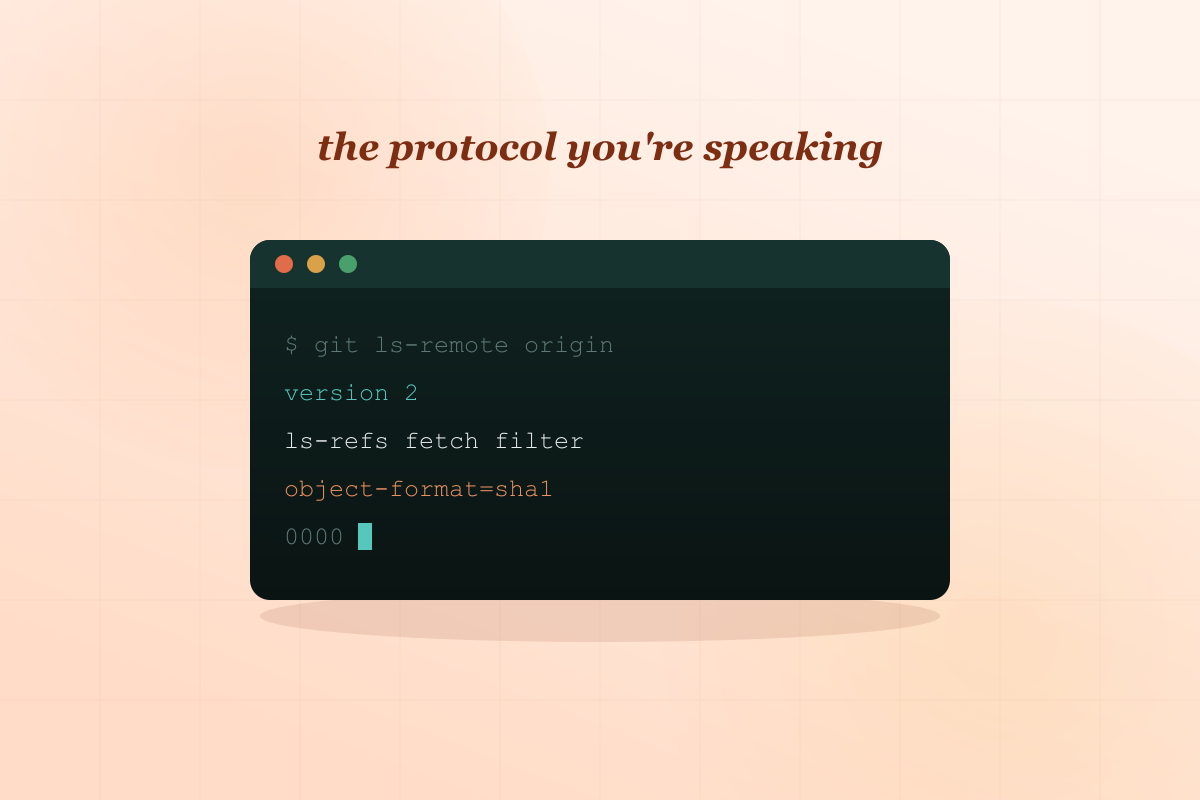
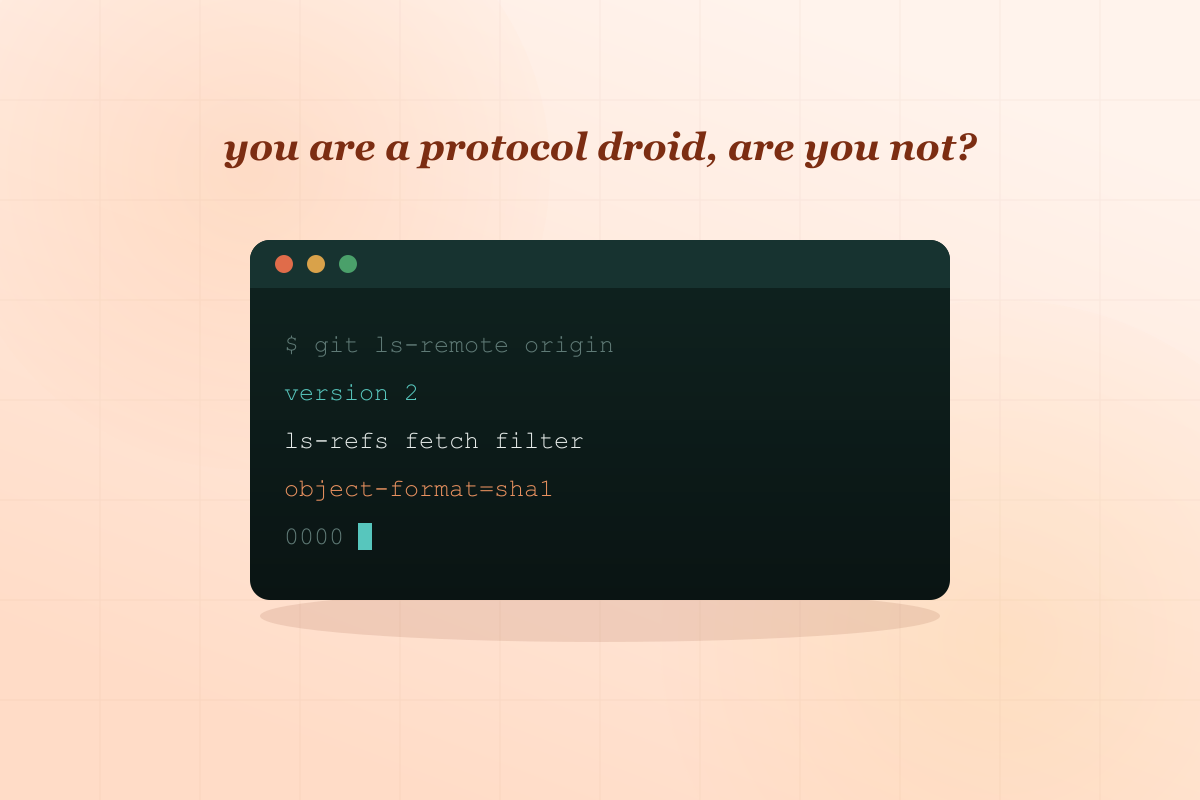
Reword the wire-protocol cover headline

Changed region(s): [[0.185, 0.1562, 0.8325, 0.2188]]

diff --git a/_tools/generate-covers.py b/_tools/generate-covers.py
@@ -848,7 +848,7 @@ def git_wire_v2():
         c.text(tx + 34, ty + 112 + i * 48, s, 25, col, family=mono,
                weight="400", anchor="start")
     c.rect_raw(tx + 34 + 74, ty + 112 + 4 * 48 - 21, 14, 27, "#57C6BD")  # cursor
-    c.text(600, 160, "the protocol you're speaking", 38, p["ink"],
+    c.text(600, 160, "you are a protocol droid, are you not?", 38, p["ink"],
            family="Georgia, serif", weight="700", style="italic")
     save("git-wire-v2",
          c.render("A terminal showing a Git protocol v2 capability advertisement"))
